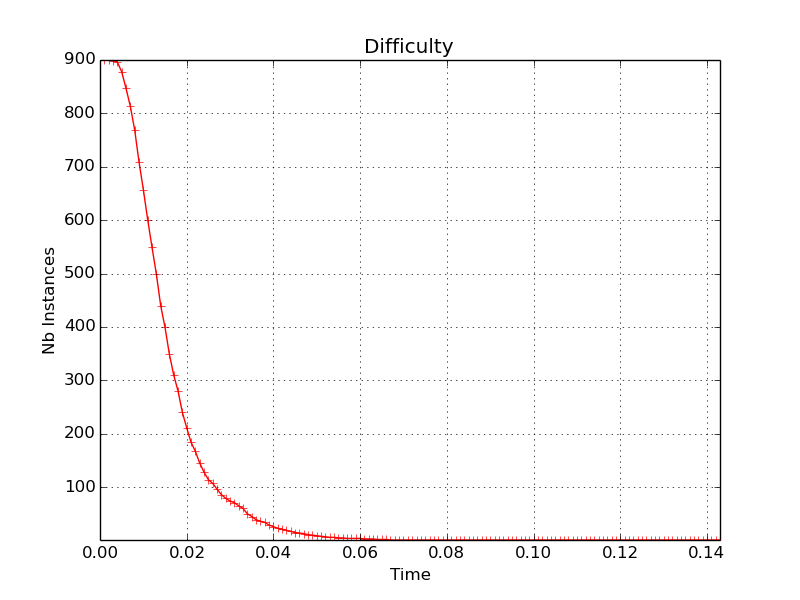
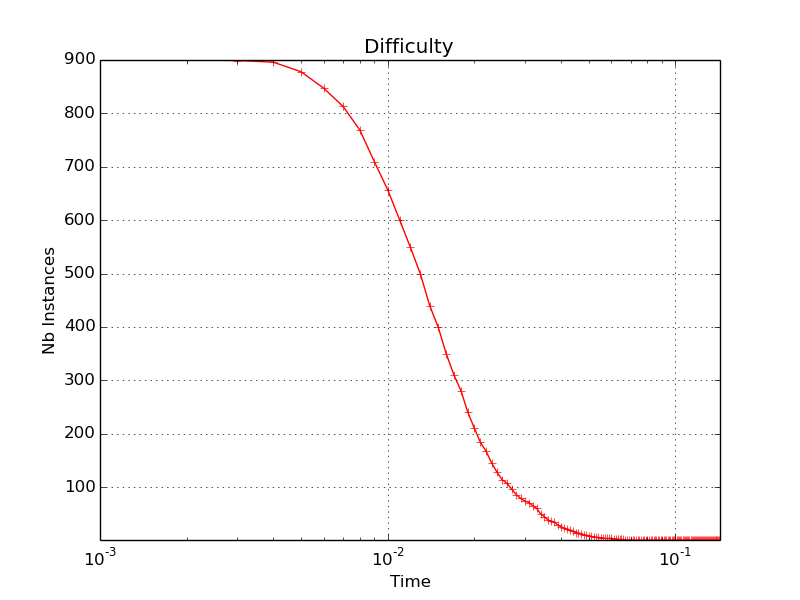
Arranged scale for the rest of the plots.

diff --git a/graph/plot.py b/graph/plot.py
@@ -15,10 +15,67 @@ def plot(x, y, title='', xlabel='', ylabel=''):
     figure.savefig(title + '.png', format='png')
 
 
-def multiPlot(plotArray, title='', xlabel='', ylabel=''):
+def multiPlot(plotArray, title='', xlabel='', ylabel='', xscale='linear', yscale='linear'):
     """
         plotArray is of the form: [[X1, Y1], [X2, Y2]]
         Where Xi, Yi are arrays of of the values to plot.
+    """
+    uniquePyPlot.clf()
+    figure = uniquePyPlot
+    figure.title(title)
+    figure.xlabel(xlabel)
+    figure.ylabel(ylabel)
+    markers = '+,.1234'
+    colors = 'rbgyo'
+    if len(plotArray) > 5:
+        print 'More than 5 plots given as parameters (plotArray)'
+        return False
+    for i, (Xi, Yi) in enumerate(plotArray):
+        figure.scatter(
+            Xi,
+            Yi,
+            marker=markers[i],
+            c=colors[i]
+        )
+    figure.xscale(xscale)
+    figure.yscale(yscale)
+    figure.autoscale(tight=True)
+    figure.grid()
+    figure.savefig(title + '.png', format='png')
+
+
+def plotLines(plotArray, title='', xlabel='', ylabel='', xscale='linear', yscale='linear'):
+    """
+        plotArray is of the form: [[X1, Y1], [X2, Y2]]
+        Where Xi, Yi are arrays of of the values to plot.
+    """
+    uniquePyPlot.clf()
+    figure = uniquePyPlot
+    figure.title(title)
+    figure.xlabel(xlabel)
+    figure.ylabel(ylabel)
+    markers = '+,.1234'
+    colors = 'rbgyo'
+    if len(plotArray) > 5:
+        print 'More than 5 plots given as parameters (plotArray)'
+        return False
+    for i, (Xi, Yi) in enumerate(plotArray):
+        figure.plot(
+            Xi,
+            Yi,
+            marker=markers[i],
+            c=colors[i]
+        )
+    figure.xscale(xscale)
+    figure.yscale(yscale)
+    figure.autoscale(tight=True)
+    figure.grid()
+    figure.savefig(title + '.png', format='png')
+
+def plot3D(plotArray, title='', xlabel='', ylabel='', zlabel=''):
+    """
+        Given a plotArray = [X, Y, Z] this will save a 3D
+        figure of the scattered data.
     """
     uniquePyPlot.clf()
     figure = uniquePyPlot
@@ -42,31 +99,12 @@ def multiPlot(plotArray, title='', xlabel='', ylabel=''):
     figure.savefig(title + '.png', format='png')
 
 
-def plotLines(plotArray, title='', xlabel='', ylabel=''):
+def plotLines3D(plotArray, title='', xlabel='', ylabel='', zlabel=''):
     """
-        plotArray is of the form: [[X1, Y1], [X2, Y2]]
-        Where Xi, Yi are arrays of of the values to plot.
+        Given a plotArray = [X, Y, Z] this will save a 3D
+        figure of the plotted data.
     """
-    uniquePyPlot.clf()
-    figure = uniquePyPlot
-    figure.title(title)
-    figure.xlabel(xlabel)
-    figure.ylabel(ylabel)
-    markers = '+,.1234'
-    colors = 'rbgyo'
-    if len(plotArray) > 5:
-        print 'More than 5 plots given as parameters (plotArray)'
-        return False
-    for i, (Xi, Yi) in enumerate(plotArray):
-        figure.plot(
-            Xi,
-            Yi,
-            marker=markers[i],
-            c=colors[i]
-        )
-    figure.autoscale(tight=True)
-    figure.grid()
-    figure.savefig(title + '.png', format='png')
+    pass
 
 if __name__ == '__main__':
     x = [i for i in xrange(10)]

diff --git a/data.py b/data.py
@@ -6,10 +6,10 @@ import png
 import numpy as np
 
 from scipy import misc
-from random import randint, random, choice
+from random import (randint, random, choice)
 from math import log
 from pdb import set_trace as debug
-from graph.plot import plotLines
+from graph.plot import (plotLines, multiPlot, plot3D)
 
 TOTAL_NB_QUBITS = 512
 INSTANCES_DIR = 'plantedInstances/'
@@ -124,7 +124,7 @@ class Instance(object):
         sol = np.array([choice(val) for i in xrange(self.config.shape[0])])
         old_cost = self.get_cost(sol)
         scores = [old_cost, ]
-        temperatures = [-T, ]
+        temperatures = [T, ]
         hammings = [hamming_distance(sol, self.config), ]
         print 'Current best: ', old_cost
         while T > 1:
@@ -139,14 +139,18 @@ class Instance(object):
                     print 'New best: ', new_cost
                 T = c * T
                 scores.append(old_cost)
-                temperatures.append(-T)
-                hammings.append(hamming_distance(sol), self.config)
+                temperatures.append(T)
+                hammings.append(hamming_distance(sol, self.config))
+                # Plotting:
                 plotLines([[temperatures, scores], ],
-                          title='Sim_Anneal_T_E', xlabel='-T', ylabel='Energy')
+                          title='Sim_Anneal_T_E', xlabel='T',
+                          ylabel='Energy', xscale='log')
                 plotLines([[temperatures, hammings], ],
-                          title='Sim_Anneal_T_Hamming', xlabel='-T', ylabel='Hamming')
-                plotLines([[scores, hammings], ],
-                          title='Sim_Anneal_E_Hamming', xlabel='Energy', ylabel='Hamming')
+                          title='Sim_Anneal_T_Hamming', xlabel='T',
+                          ylabel='Hamming', xscale='log')
+                multiPlot([[scores, hammings], ],
+                          title='Sim_Anneal_E_Hamming', xlabel='Energy',
+                          ylabel='Hamming')
         return (sol, old_cost)
 
     def run_GA(self):
